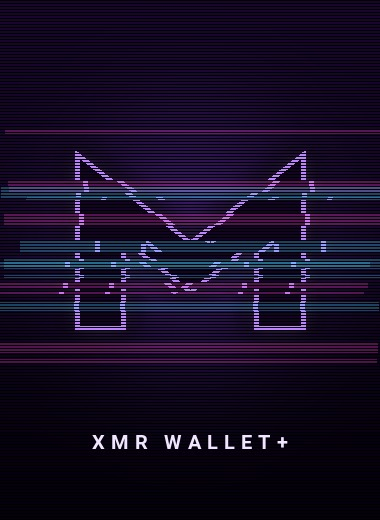
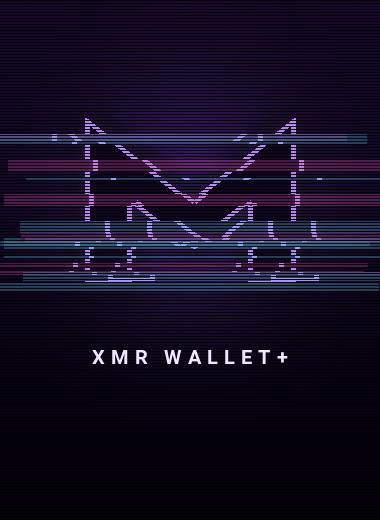
Trezor window: wallet and device names, Cancel button; passphrase kept on wallet switch; Neon/Matte theme; centered wallpapers; Nym required locked while connected

diff --git a/main.qml b/main.qml
@@ -91,6 +91,19 @@ ApplicationWindow {
     property alias toolTip: toolTip
     property string walletName
     property string walletDeviceLabel: ""   // Trezor name shown in the title bar
+    // remember the Trezor name of each wallet, so the "proceed to the device" screen can show it while opening
+    onWalletDeviceLabelChanged: {
+        if (walletDeviceLabel === "" || !persistentSettings.wallet_path) return;
+        var m = {};
+        try { m = JSON.parse(persistentSettings.trezorLabels || "{}"); } catch (e) {}
+        if (m[persistentSettings.wallet_path] === walletDeviceLabel) return;
+        m[persistentSettings.wallet_path] = walletDeviceLabel;
+        persistentSettings.trezorLabels = JSON.stringify(m);
+    }
+    function knownTrezorLabel(path) {
+        if (walletDeviceLabel !== "" && currentWallet && path === persistentSettings.wallet_path) return walletDeviceLabel;
+        try { return JSON.parse(persistentSettings.trezorLabels || "{}")[path] || ""; } catch (e) { return ""; }
+    }
     property string deviceShowAddress: ""   // address sent to the Trezor screen, shown in the splash to compare
 
     // true when the path lives on a USB stick / SD card (oshelper.removableVolumes)
@@ -1144,6 +1157,7 @@ ApplicationWindow {
                 ? qsTr("Check that the address on the device is exactly this one:") + translationManager.emptyString
                 : qsTr("Check the details on the device screen and confirm them there.") + translationManager.emptyString;
             splash.deviceMode = true;
+            splash.cancelling = false;
             appWindow.showProcessingSplash(qsTr("Please proceed to the device..."));
         }
     }
@@ -1151,6 +1165,7 @@ ApplicationWindow {
     function onDeviceButtonPressed(){
         devicePrompt.hide();
         splash.deviceMode = false;
+        splash.cancelling = false;
         deviceShowAddress = "";
         if (txConfirmationPopup.visible) {
             txConfirmationPopup.bottomTextAnimation.running = false;
@@ -1914,9 +1929,19 @@ ApplicationWindow {
         splash.show();
     }
 
+    // Cancel on the Trezor splash: the core gives up the wait and tells the device; if the
+    // operation does not end on its own (Trezor unplugged or frozen) the splash closes anyway
+    function cancelDeviceConfirmation() {
+        splash.cancelling = true;
+        walletManager.cancelDeviceConfirmation();
+        deviceCancelFallback.restart();
+    }
+
     function hideProcessingSplash() {
         devicePrompt.hide();
+        deviceCancelFallback.stop();
         splash.deviceMode = false;
+        splash.cancelling = false;
         deviceShowAddress = "";
         console.log("Hiding processing splash")
         splash.close();
@@ -2520,6 +2545,8 @@ ApplicationWindow {
         property int lockOnUserInActivityInterval: 10  // minutes
         property bool blackTheme: MoneroComponents.Style.blackTheme
         property string themePalette: "matrix"   // colour palette (Style.palettes), chosen from the title bar
+        property bool themePastel: false         // pastel (soft) colours instead of neon
+        property string trezorLabels: "{}"       // JSON wallet path -> Trezor name, for the device prompt before the wallet opens
         property bool checkForUpdates: true
         property bool autosave: true
         property int autosaveMinutes: 10
@@ -2591,6 +2618,7 @@ ApplicationWindow {
         Component.onCompleted: {
             MoneroComponents.Style.blackTheme = persistentSettings.blackTheme
             MoneroComponents.Style.themePalette = persistentSettings.themePalette
+            MoneroComponents.Style.pastel = persistentSettings.themePastel
 
             if (!appWindow.fiatPriceAPIs.hasOwnProperty(fiatPriceProvider)) {
                 console.warn("unsupported fiat price provider \"" + fiatPriceProvider + "\", resetting");
@@ -2892,6 +2920,16 @@ ApplicationWindow {
         x: (appWindow.width - width) / 2
         y: (appWindow.height - height) / 2
         messageText: qsTr("Please wait...") + translationManager.emptyString
+        // wallet being opened or used, and its Trezor (shown while waiting on the device)
+        walletLabel: persistentSettings.wallet_path ? appWindow.usefulName(String(persistentSettings.wallet_path).replace(/.*[\/\\]/, "").replace(/\.keys$/, "")) : ""
+        deviceLabel: deviceMode ? appWindow.knownTrezorLabel(persistentSettings.wallet_path) : ""
+        onCancelRequested: appWindow.cancelDeviceConfirmation()
+    }
+
+    Timer {
+        id: deviceCancelFallback
+        interval: 8000
+        onTriggered: if (splash.visible && splash.cancelling) hideProcessingSplash()
     }
 
     Item {

diff --git a/components/TitleBar.qml b/components/TitleBar.qml
@@ -364,6 +364,11 @@ Rectangle {
                     persistentSettings.blackTheme = dark;
                 }
 
+                function setPastel(pastel) {
+                    MoneroComponents.Style.pastel = pastel;
+                    persistentSettings.themePastel = pastel;
+                }
+
                 background: MoneroComponents.NeonFrame {
                     cut: 8
                     accent: MoneroComponents.Style.orange
@@ -424,6 +429,51 @@ Rectangle {
                                     hoverEnabled: true
                                     cursorShape: Qt.PointingHandCursor
                                     onClicked: themePopup.setTheme(MoneroComponents.Style.themePalette, modelData.dark)
+                                }
+                            }
+                        }
+                    }
+                    // neon / matte (soft colours)
+                    RowLayout {
+                        Layout.fillWidth: true
+                        Layout.bottomMargin: 6
+                        spacing: 6
+                        Repeater {
+                            model: [{ pastel: false, label: qsTr("Neon") + translationManager.emptyString, icon: "\uf0e7" },
+                                    { pastel: true, label: qsTr("Matte") + translationManager.emptyString, icon: "\uf043" }]
+                            Rectangle {
+                                readonly property bool current: MoneroComponents.Style.pastel === modelData.pastel
+                                Layout.fillWidth: true
+                                height: 28
+                                radius: 3
+                                color: current ? MoneroComponents.Style.c("#2E00FF41")
+                                       : toneArea.containsMouse ? Qt.rgba(0.5, 0.5, 0.5, 0.12) : "transparent"
+                                border.width: 1
+                                border.color: current ? MoneroComponents.Style.orange : Qt.rgba(0.5, 0.5, 0.5, 0.35)
+                                Row {
+                                    anchors.centerIn: parent
+                                    spacing: 6
+                                    Text {
+                                        anchors.verticalCenter: parent.verticalCenter
+                                        text: modelData.icon
+                                        font.family: FontAwesome.fontFamily
+                                        font.pixelSize: 12
+                                        color: MoneroComponents.Style.defaultFontColor
+                                    }
+                                    Text {
+                                        anchors.verticalCenter: parent.verticalCenter
+                                        text: modelData.label
+                                        font.family: MoneroComponents.Style.fontRegular.name
+                                        font.pixelSize: 12
+                                        color: MoneroComponents.Style.defaultFontColor
+                                    }
+                                }
+                                MouseArea {
+                                    id: toneArea
+                                    anchors.fill: parent
+                                    hoverEnabled: true
+                                    cursorShape: Qt.PointingHandCursor
+                                    onClicked: themePopup.setPastel(modelData.pastel)
                                 }
                             }
                         }

diff --git a/components/ProcessingSplash.qml b/components/ProcessingSplash.qml
@@ -145,7 +145,9 @@ Rectangle {
     Text {
         x: 30
         y: 16
-        text: "XMR//WALLET+  ·  SYS.PROC"
+        text: "XMR//WALLET+  ·  " + (root.walletLabel !== "" ? root.walletLabel : "SYS.PROC")
+        width: Math.min(implicitWidth, root.width / 2 - 50)
+        elide: Text.ElideRight
         color: root.neon
         opacity: 0.8
         font.family: MoneroComponents.Style.fontMonoMedium.name
@@ -166,7 +168,9 @@ Rectangle {
             opacity: root.tick % 10 < 5 ? 1 : 0.25
         }
         Text {
-            text: "PID " + (4096 + root.tick % 997)
+            text: root.deviceMode && root.deviceLabel !== "" ? "TREZOR " + root.deviceLabel : "PID " + (4096 + root.tick % 997)
+            width: Math.min(implicitWidth, root.width / 2 - 80)
+            elide: Text.ElideRight
             color: root.magenta
             opacity: 0.85
             font.family: MoneroComponents.Style.fontMonoMedium.name
@@ -202,6 +206,10 @@ Rectangle {
     property alias messageText: messageTitle.text
     property bool deviceMode: false     // waiting for a confirmation on the Trezor
     property string subText: ""
+    property string walletLabel: ""     // wallet being opened / used
+    property string deviceLabel: ""     // name of its Trezor
+    property bool cancelling: false     // Cancel pressed, waiting for the operation to stop
+    signal cancelRequested()
     property string addressText: ""     // address being shown on the Trezor, in groups of 4 to compare
     readonly property int contentHeight: rootLayout.implicitHeight
 
@@ -418,6 +426,38 @@ Rectangle {
                 font.family: MoneroComponents.Style.fontMonoMedium.name
                 font.pixelSize: 18
                 lineHeight: 1.3
+            }
+        }
+
+        // gives up the wait if the Trezor does not respond
+        Rectangle {
+            visible: root.deviceMode
+            Layout.alignment: Qt.AlignHCenter
+            Layout.topMargin: -4
+            Layout.preferredWidth: cancelText.implicitWidth + 48
+            Layout.preferredHeight: 34
+            color: cancelArea.containsMouse && !root.cancelling ? Qt.rgba(1, 0.17, 0.84, 0.15) : "transparent"
+            border.width: 1
+            border.color: root.cancelling ? "#555555" : (cancelArea.containsMouse ? root.magenta : root.neon)
+            opacity: root.cancelling ? 0.6 : 1
+
+            Text {
+                id: cancelText
+                anchors.centerIn: parent
+                text: (root.cancelling ? qsTr("Cancelling...") : qsTr("Cancel")) + translationManager.emptyString
+                color: "#FFFFFF"
+                font.family: MoneroComponents.Style.fontMonoMedium.name
+                font.pixelSize: 12
+                font.letterSpacing: 3
+                font.capitalization: Font.AllUppercase
+            }
+            MouseArea {
+                id: cancelArea
+                anchors.fill: parent
+                hoverEnabled: true
+                enabled: !root.cancelling
+                cursorShape: Qt.PointingHandCursor
+                onClicked: root.cancelRequested()
             }
         }
     }

diff --git a/components/Style.qml b/components/Style.qml
@@ -26,18 +26,46 @@ QtObject {
         return x.length < 2 ? "0" + x : x;
     }
 
-    // a Matrix colour ("#rrggbb" or "#aarrggbb") in the current palette
+    // pastel instead of neon: softer colours over any palette. Accents lose saturation and glare,
+    // the dark theme's blacks lift to a dark grey and the light theme's whites dim to a soft grey.
+    property bool pastel: false
+
+    // [saturation, lightness] of a colour in pastel
+    function _pastel(s, l) {
+        if (blackTheme) {
+            if (l < 0.2)
+                return [s * 0.1, 0.085 + l * 0.55];                 // backgrounds: black -> neutral dark grey
+            if (l > 0.9)
+                return [s * 0.5, 0.88];                             // white text without glare
+            return [s * 0.55, Math.min(0.82, 0.28 + l * 0.75)];   // accents: soft, not neon
+        }
+        if (l > 0.7)
+            return [s * 0.12, 0.7 + (l - 0.7) * 0.6];               // whites / pale backgrounds -> neutral grey
+        return [s * 0.6, l * 0.92];                                 // text and accents a bit darker
+    }
+
+    // a Matrix colour ("#rrggbb" or "#aarrggbb") in the current palette and neon / pastel
     function c(hex) {
         var p = palettes[themePalette];
-        if (!p || p.hue < 0)
+        var shift = !!p && p.hue >= 0;
+        if (!shift && !pastel)
             return hex;
         var col = Qt.lighter(hex, 1.0);
         var s = col.hslSaturation, h = col.hslHue, l = col.hslLightness;
-        if (s < 0.04 || h < 0.18 || h > 0.48)
+        var isGreen = s >= 0.04 && h >= 0.18 && h <= 0.48;
+        if (!pastel && !isGreen)
             return hex;
-        if (s > 0.3 && l > 0.25 && l < 0.9)   // accents only, not the tinted greys
-            l = Math.min(0.9, l * p.k);
-        var o = Qt.hsla(p.hue, s, l, col.a);
+        if (shift && isGreen) {
+            h = p.hue;
+            if (s > 0.3 && l > 0.25 && l < 0.9)   // accents only, not the tinted greys
+                l = Math.min(0.9, l * p.k);
+        }
+        if (pastel) {
+            var v = _pastel(s, l);
+            s = v[0];
+            l = v[1];
+        }
+        var o = Qt.hsla(Math.max(0, h), s, l, col.a);   // greys report hue -1
         return "#" + (col.a < 1 ? _hex2(col.a) : "") + _hex2(o.r) + _hex2(o.g) + _hex2(o.b);
     }
     property QtObject fontMedium: FontLoader { id: _fontMedium; source: "qrc:/fonts/Roboto-Medium.ttf"; }

diff --git a/components/NymVpnPanel.qml b/components/NymVpnPanel.qml
@@ -225,7 +225,9 @@ Item {
                     MoneroComponents.CheckBox {
                         id: nymRequiredBox
                         accent: nymPanel.requiredColor
-                        checked: persistentSettings.nymVpnRequired
+                        // while Nym is connected it is shown on and locked (the setting itself is not changed)
+                        checked: persistentSettings.nymVpnRequired || nymPanel.active
+                        enabled: !nymPanel.active
                         toggleOnClick: false
                         onClicked: persistentSettings.nymVpnRequired = !persistentSettings.nymVpnRequired
                         text: ""
@@ -237,6 +239,7 @@ Item {
                         // the "?" icon is drawn outside the text: keep room for it and keep it above the next items
                         Layout.rightMargin: 20
                         z: 2
+                        opacity: nymRequiredBox.enabled ? 1 : 0.7
                         text: qsTr("Nym required") + translationManager.emptyString
                         tooltipIconVisible: true
                         tooltip: qsTr("When checked, the app waits for its independent Nym client before connecting. A local node must be started with this proxy. The option is saved and Nym connects at startup.") + translationManager.emptyString

diff --git a/translations/monero-core_es.ts b/translations/monero-core_es.ts
@@ -1489,6 +1489,14 @@ Minar también te da una posibilidad pequeña de ganar algo de Monero. Tu ordena
         <source>Please wait...</source>
         <translation>Por favor, espere...</translation>
     </message>
+    <message>
+        <source>Cancelling...</source>
+        <translation>Cancelando...</translation>
+    </message>
+    <message>
+        <source>Cancel</source>
+        <translation>Cancelar</translation>
+    </message>
 </context>
 <context>
     <name>ProgressBar</name>
@@ -3031,6 +3039,14 @@ Puedes cambiar la contraseña en las opciones del monedero.</translation>
     <message>
         <source>Light</source>
         <translation>Claro</translation>
+    </message>
+    <message>
+        <source>Neon</source>
+        <translation>Neón</translation>
+    </message>
+    <message>
+        <source>Matte</source>
+        <translation>Mate</translation>
     </message>
     <message>
         <source>NODE</source>

diff --git a/src/libwalletqt/WalletManager.cpp b/src/libwalletqt/WalletManager.cpp
@@ -298,7 +298,12 @@ Wallet *WalletManager::openWallet(const QString &path, const QString &password, 
     const QString parkedKey = closingKey(path);
     if (m_parked.contains(parkedKey)) {
         const QString keysFile = path.endsWith(".keys") ? path : path + ".keys";
-        if (m_pimpl->verifyWalletPassword(keysFile.toStdString(), password.toStdString(), false, kdfRounds)) {
+        // Trezor and view-only wallets keep no spend key in the file: check the password with the
+        // view key only (checking the spend key always failed, so a Trezor wallet was opened again
+        // and asked for its passphrase)
+        const Wallet *parked = m_parked.value(parkedKey);
+        const bool noSpendKey = parked->isHwBacked() || parked->viewOnly();
+        if (m_pimpl->verifyWalletPassword(keysFile.toStdString(), password.toStdString(), noSpendKey, kdfRounds)) {
             if (m_currentWallet) {
                 qDebug() << "Closing open m_currentWallet" << m_currentWallet;
                 delete m_currentWallet;
@@ -665,6 +670,11 @@ void WalletManager::setLogLevel(int logLevel)
 void WalletManager::setLogCategories(const QString &categories)
 {
     Monero::WalletManagerFactory::setLogCategories(categories.toStdString());
+}
+
+void WalletManager::cancelDeviceConfirmation()
+{
+    Monero::WalletManagerFactory::cancelDeviceConfirmation();
 }
 
 QString WalletManager::urlToLocalPath(const QUrl &url) const

diff --git a/src/libwalletqt/WalletManager.h b/src/libwalletqt/WalletManager.h
@@ -194,6 +194,8 @@ public:
 
     Q_INVOKABLE void setLogLevel(int logLevel);
     Q_INVOKABLE void setLogCategories(const QString &categories);
+    // gives up the wait for a confirmation on the Trezor (the operation fails as cancelled)
+    Q_INVOKABLE void cancelDeviceConfirmation();
 
     Q_INVOKABLE quint64 add(quint64 x, quint64 y) const { return x + y; }
     Q_INVOKABLE quint64 sub(quint64 x, quint64 y) const { return x - y; }
